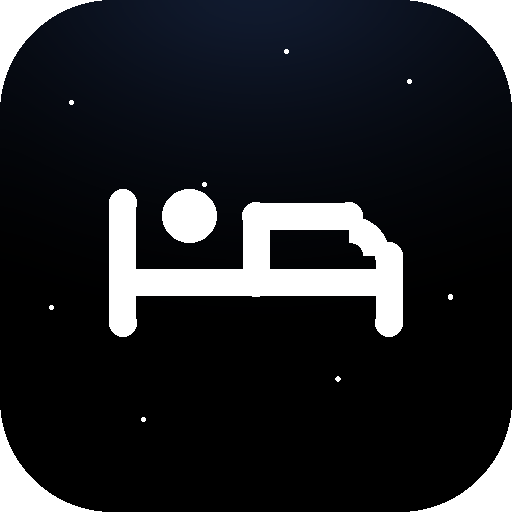
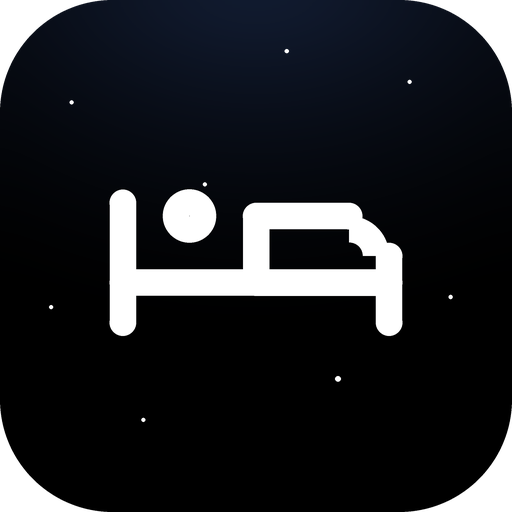
Portal, EnfermarIA, CondutAI: folha Astra v3; ícones do EnfermarIA reamostrados (4x)

diff --git a/condutai.html b/condutai.html
@@ -1017,7 +1017,7 @@ main, #main { display: block !important; height: auto !important; overflow: visi
 </style>
 <style>/* mt-a11y-16px */@media(max-width:680px){input,select,textarea{font-size:16px}}</style>
 <link rel="stylesheet" href="_mttokens.css?v=3">
-<link rel="stylesheet" href="_mtastra.css?v=2">
+<link rel="stylesheet" href="_mtastra.css?v=3">
 </head>
 <body>
 

diff --git a/app.html b/app.html
@@ -80,7 +80,7 @@ footer a{color:var(--muted);text-decoration:none;display:inline-block;padding:10
 @media(prefers-reduced-motion:reduce){*{transition:none!important}}
 </style>
 <link rel="stylesheet" href="_mttokens.css?v=3">
-<link rel="stylesheet" href="_mtastra.css?v=2">
+<link rel="stylesheet" href="_mtastra.css?v=3">
 </head>
 <body>
 <header>

diff --git a/enfermaria.html b/enfermaria.html
@@ -281,7 +281,7 @@ footer a{color:var(--petrol-dark);font-weight:600;text-decoration:none}
 
 </style>
 <link rel="stylesheet" href="_mttokens.css?v=3">
-<link rel="stylesheet" href="_mtastra.css?v=2">
+<link rel="stylesheet" href="_mtastra.css?v=3">
 </head>
 <body>
 <header>
